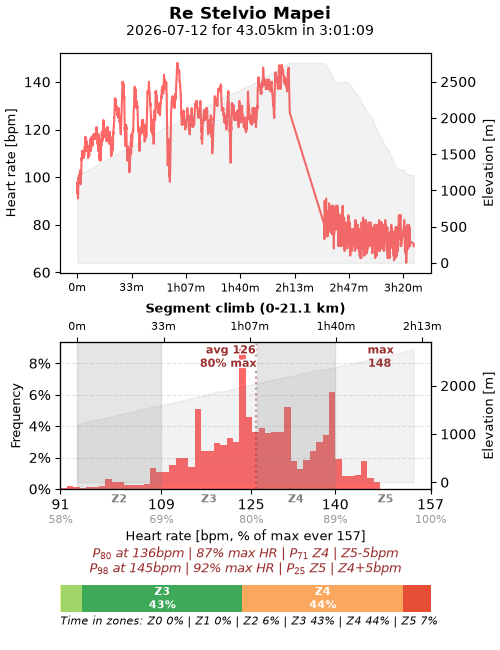
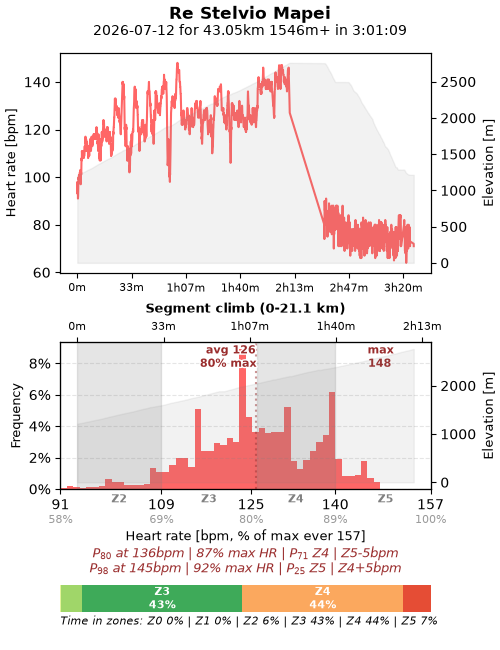
feat(sport-analysis): add elevation to subtitle in plot-climb-ride

Changed region(s): [[0.18, 0.0308, 0.81, 0.0615]]

diff --git a/projects/sport-analysis/sport_analysis/plot/plot_ride_api/plot_climb_ride_api_cmd.py b/projects/sport-analysis/sport_analysis/plot/plot_ride_api/plot_climb_ride_api_cmd.py
@@ -351,6 +351,9 @@ class PlotClimbRideApiCmd(base_api.MixinGarminRequestsApi, base_plot.MixinHrPlot
             ],
             activity_original_duration=self._s[0].summary_resp.summary["duration"],
             activity_original_distance=self._s[0].summary_resp.summary["distance"],
+            activity_original_elevation_gain=self._s[0].summary_resp.summary[
+                "elevationGain"
+            ],
         )
         figure.text(
             figure.get_figwidth() / 2,  # Inches.
